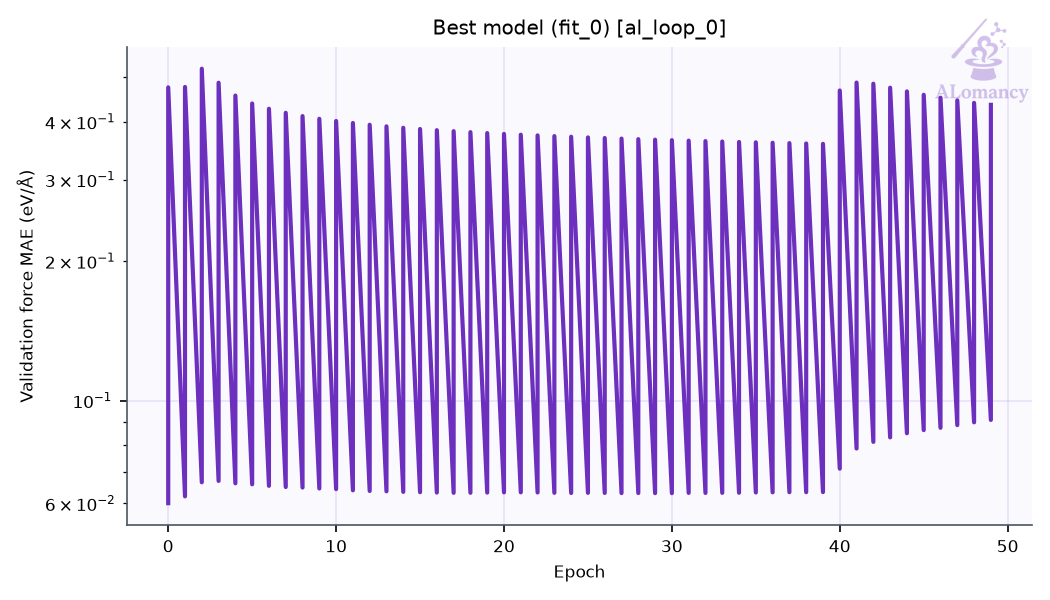
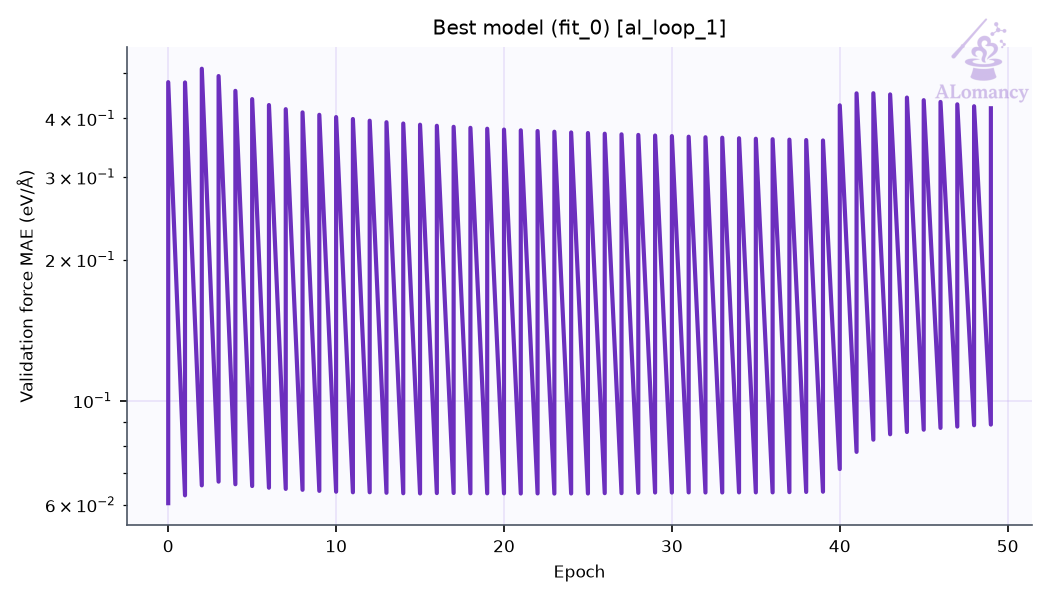
update fine_tune_good_c

diff --git a/alomancy/fine_tune_good_c/report/report.md b/alomancy/fine_tune_good_c/report/report.md
@@ -1,32 +1,32 @@
-# ALomancy report: al_loop_0
+# ALomancy report: al_loop_1
 
-Workflow `novelty_selection` · trainer `mace` · generator `md` · evaluator `qe` · generated 2026-11-04T01:58:27
+Workflow `novelty_selection` · trainer `mace` · generator `md` · evaluator `qe` · generated 2026-11-04T04:29:59
 
-**Status:** ✖ 1 error · 💡 1 info · 5 warning(s) logged
+**Status:** ⚠ 1 warning · 0 warning(s) logged
 
 ## Headline
 
-| | previous | loop 0 | change |
+| | loop 0 | loop 1 | change |
 |---|---:|---:|---:|
-| Best model test force MAE (eV/Å) | n/a | 0.416 |  |
-| Best model test energy MAE (meV/atom) | n/a | 38.4 |  |
-| Training structures | n/a | 3.97e+03 |  |
-| Test structures | n/a | 410 |  |
-| New structures this loop | n/a | 123 |  |
-| Warnings / errors logged | n/a | 5 |  |
+| Best model test force MAE (eV/Å) | 0.416 | 0.416 | -0% |
+| Best model test energy MAE (meV/atom) | 38.4 | 33.7 | -12% |
+| Training structures | 3.97e+03 | 4.03e+03 | +1% |
+| Test structures | 410 | 414 | +1% |
+| New structures this loop | 123 | 100 | -19% |
+| Warnings / errors logged | 5 | 0 | -100% |
 
 Best model: fit_0 of 1 (chosen on the `valid` split).
 
 ## Issues & suggestions
 
-- ✖ **dft_partial_failure**: 2/10 structures sent to DFT (20%) came back without a result. Check the DFT output in results/<loop>/high_accuracy_evaluation; raise high_accuracy_evaluation.max_time / max_go_time if jobs timed out.
-- 💡 **queue_dominated**: high_accuracy_evaluation spent 61% of its time (2.5 h) queued. Raise max_num_of_concurrent_jobs in the HPC profile or use a less busy partition.
+- ⚠ **new_structures_force_filtered**: 38/100 new structures (38%) were excluded from training by general.train_filter.max_force (5.0 eV/Å). Lower high_accuracy_evaluation.force_ceiling (now 0.05) so DFT relaxes them further, or make generation gentler (lower md_kwargs.temperature or md_kwargs.timestep_fs).
 
 ## Trends
 
 | loop | test F-MAE (eV/Å) | train | new | DFT returned | GO converged | new redundant | warnings |
 |---:|---:|---:|---:|---:|---:|---:|---:|
 | 0 | 0.416 | 3970 | 123 | 8/10 | 100% | 0 | 5 |
+| 1 | 0.416 | 4028 | 100 | 0 | n/a | 0 | 0 |
 
 ![Best-model MAE per loop](plots/training_al_loop_mae_plot.png)
 
@@ -36,7 +36,7 @@ Best model: fit_0 of 1 (chosen on the `valid` split).
 
 ![Best model parity](plots/best_model_parity.png)
 
-Median relative error: train energy 0.4%, force 43.0%; test energy 0.4%, force 43.5%.
+Median relative error: train energy 0.3%, force 42.7%; test energy 0.3%, force 43.3%.
 Energies with |formation energy| < 0.05 eV/atom and atoms with |F| < 0.1 eV/Å are left out; force error is |ΔF|/|F| per atom.
 
 ![Best model percentage error](plots/best_model_percent_error.png)
@@ -47,7 +47,7 @@ Energies with |formation energy| < 0.05 eV/atom and atoms with |F| < 0.1 eV/Å a
 |---|---:|---:|---:|---:|
 | CNa_dataset | 3538 | 392 | 662 | 4592 |
 | IsolatedAtom | 1 | 0 | 0 | 1 |
-| high_sd | 100 | 12 | 3 | 115 |
+| high_sd | 158 | 16 | 41 | 215 |
 | init_MP | 7 | 1 | 0 | 8 |
 | init_amorphous | 26 | 3 | 0 | 29 |
 | init_dimer | 99 | 0 | 0 | 99 |
@@ -57,33 +57,16 @@ Energies with |formation energy| < 0.05 eV/atom and atoms with |F| < 0.1 eV/Å a
 | novelty_selection | 12 | 2 | 2 | 16 |
 | on_hull | 1 | 0 | 0 | 1 |
 | on_hull_expansion | 11 | 0 | 9 | 20 |
-| **all** | **3970** | **410** | **1093** | **5473** |
+| **all** | **4028** | **414** | **1131** | **5573** |
 
-- Redundancy removal: 0 structure(s) flagged in total, 0 of this loop's 123 new.
-- DFT geometry-optimisation starting frames: 8 stored this loop, 6 used (the rest excluded by the train/test filters or redundancy removal).
-- Quality filters: high_force: 1084, formation_energy: 21.
+- Redundancy removal: 0 structure(s) flagged in total, 0 of this loop's 100 new.
+- Quality filters: high_force: 1122, formation_energy: 21.
 
 ![Training set composition](plots/training_set_composition.png)
 
-### Redundancy removal
-
-Redundancy removal flags near-duplicate training structures, so the model isn't trained on many copies of the same geometry. Each structure is described by `char_vec_128`: all of its interatomic distances, sorted and resampled to 128 values (`global_descriptor/atomic_distance_descriptor.make_char_vec`). Two structures count as duplicates when the Euclidean distance between their descriptors is below a tolerance: in database order, each structure still in the training set is kept unless it is within the tolerance of one already kept. The plot sweeps that tolerance and counts how many structures are kept at each value. **We are looking for plateaus** (shaded): ranges where the count doesn't change, so the result doesn't depend on the exact tolerance. The orange line (right axis) is the number of structures removed between consecutive tolerance steps, the gradient of the count: zero on a plateau. The start of the lowest plateau at least `general.redundancy_kwargs.min_plateau_width` of the swept range wide is used (dashed line). Nothing is flagged when no plateau qualifies, or when it would flag more than `max_flagged_fraction` of the structures; `general.redundancy_kwargs.tolerance` sets the tolerance directly.
-
-- This loop: 3,583 structures probed; the lowest plateau would flag more than 50% of them, so nothing was flagged.
-
-![Redundancy tolerance probe](plots/redundancy_tolerance_probe.png)
-
 ## DFT
 
-- Structures: 8 returned of 10 submitted (8 relaxed, 0 single point).
-- Geometry optimisation: 8/8 reached the force ceiling (0.05 eV/Å); steps mean 12.2, median 6, max 39 of 200 allowed.
-- Average DFT time per relaxation: 35.4 min (median 28.7, max 86.7; 8 structures).
-- Largest per-atom force after DFT: median 0.03, max 0.04 eV/Å.
-- DFT phase wall-clock: 4.0 h (mean queue time 148 min).
-
-**Structures evaluated with DFT this loop (final geometries)**
-
-![Structures evaluated with DFT this loop (final geometries)](plots/added_structures.gif)
+No DFT this loop.
 
 ## MLIP training: mace
 
@@ -91,36 +74,8 @@ Redundancy removal flags near-duplicate training structures, so the model isn't 
 
 ![Best model training curve](plots/best_model_training_curve.png)
 
-## Structure generation: MD
-
-- Runs: 50 (50 completed, 0 seed(s) replaced)
-- Frames: 1000 recorded, 931 physical (no bond < 0.5 Å, volume ≤ 3 x the seed's; 19 frame(s) cut after a run expanded past it, seed frames left out), 100 picked as candidates, spread over each run
-- Ensemble npt, T = default K, timestep 0.3 fs
-
-![MD frames per run](plots/md_frames_per_run.png)
-
-![MD temperature](plots/md_temperature.png)
-
-## High-accuracy evaluation: QE
-
-![DFT geometry steps](plots/dft_geometry_steps.png)
-
-![DFT wall time](plots/dft_wall_time.png)
-
-## Selection: novelty
-
-- 10 of 92 candidates selected against 5856 reference structure(s), tolerance 3.06 (descriptor distance).
-
 ## Warnings and events
 
 | event | meaning | count |
 |---|---|---:|
-| `blown_up_excluded` | blown-up cells kept from DFT (volume >> vdW volume) | 1 |
-| `dft_summary` | DFT batch summary | 1 |
-| `job_failed` | remote job failed | 2 |
-| `jobs_started` | remote jobs started | 3 |
-| `md_summary` | MD summary | 1 |
-| `md_volume_expanded` | MD runs cut after expanding past max_volume_ratio | 1 |
-| `novelty_selected` | novelty selection | 1 |
-| `quality_filtered` | train/test quality filter passes | 2 |
-| `redundancy_cap_hit` | redundancy removal skipped (would flag too many) | 1 |
+| `jobs_started` | remote jobs started | 1 |
